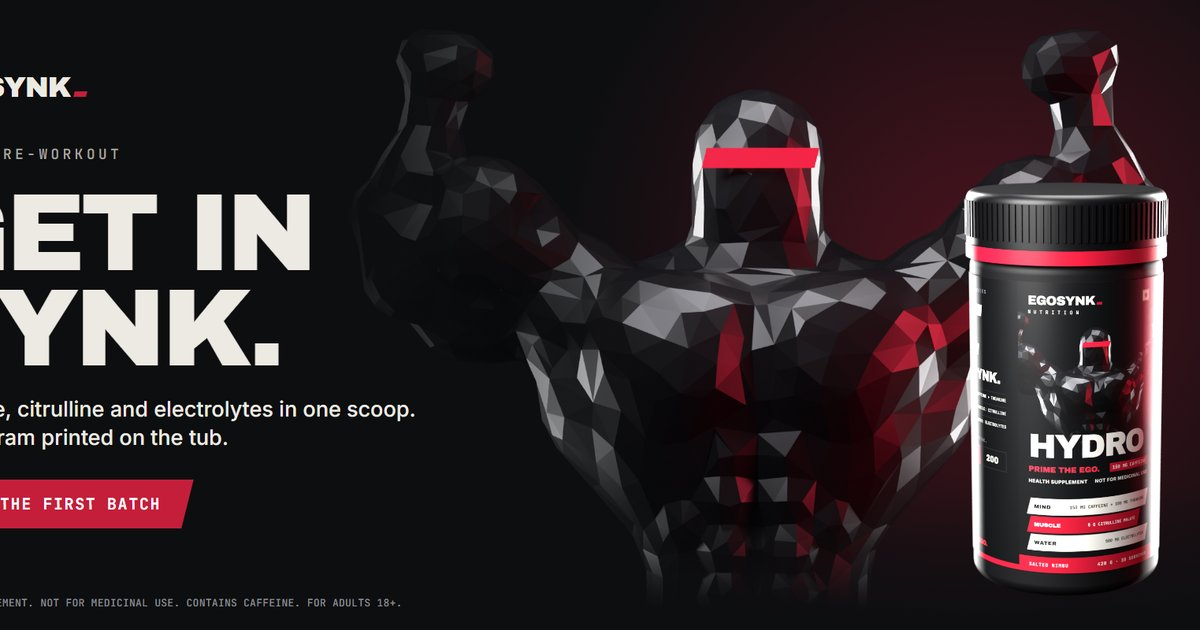
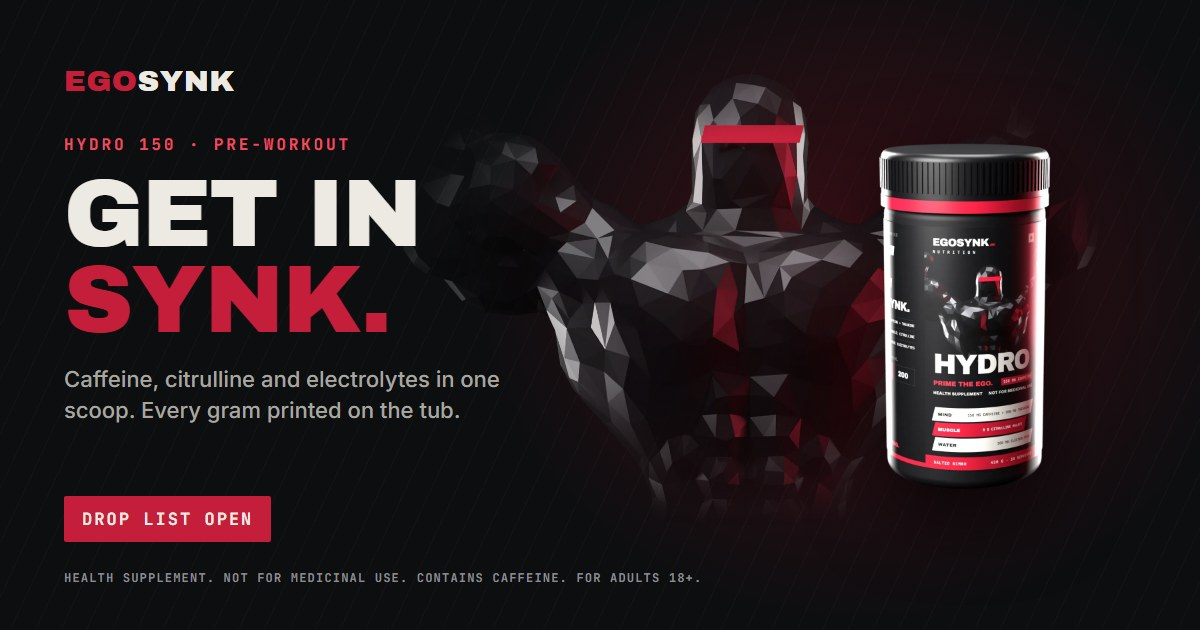
Share previews: new BOLD image, HYDRO image no longer cut off
- og-bold.jpg for /bold (was reusing the homepage image): "Wear your ego.",
  both bottles, drop list chip; no prices or notes.
- og-hydro.jpg rebuilt: the old one was cropped on the left (logo, headline
  and button text cut off).
- Templates for both in scripts/, and scripts/render-og.mjs to re-render any
  of them with one command (node scripts/render-og.mjs <name>).

diff --git a/scripts/og-hydro.html b/scripts/og-hydro.html
@@ -1,0 +1,38 @@
+<!doctype html>
+<!-- Source for public/img/og-hydro.jpg (the /hydro page's WhatsApp / Instagram / X preview).
+     Re-render: node scripts/render-og.mjs hydro
+     Colours are the tokens in src/app/globals.css (ink, bone, dim, steel, rust, rust-dim). -->
+<html><head><meta charset="utf-8">
+<link href="https://fonts.googleapis.com/css2?family=Archivo+Black&family=JetBrains+Mono:wght@700&family=Inter:wght@500&display=swap" rel="stylesheet">
+<style>
+  :root{--ink:#0d0e10;--bone:#edeae3;--dim:#a8a6a0;--steel:#8b8d93;--rust:#c41e3a;--rust-text:#ec4d62;--rust-dim:#3d0f16}
+  *{margin:0;box-sizing:border-box}
+  body{width:1200px;height:630px;overflow:hidden;background:var(--ink);color:var(--bone);font-family:Inter,sans-serif;position:relative}
+  .glow{position:absolute;inset:0;background:radial-gradient(45% 75% at 72% 45%,var(--rust-dim) 0%,transparent 72%)}
+  .lines{position:absolute;inset:0;background:repeating-linear-gradient(115deg,transparent 0 22px,rgba(237,234,227,.025) 22px 23px)}
+  /* SYNK stands behind, faded at its edges so the copy stays readable. */
+  .synk{position:absolute;left:390px;top:20px;width:720px;opacity:.75;-webkit-mask-image:radial-gradient(closest-side,#000 55%,transparent 100%);mask-image:radial-gradient(closest-side,#000 55%,transparent 100%)}
+  .tub{position:absolute;right:40px;top:90px;height:500px;filter:drop-shadow(0 24px 40px rgba(0,0,0,.7))}
+  /* Everything that must be read sits 64px in from every edge. */
+  .copy{position:absolute;left:64px;top:60px;width:520px}
+  .logo{font:400 30px 'Archivo Black';letter-spacing:.02em}
+  .logo b{color:var(--rust);font-weight:400}
+  .eyebrow{font:700 16px 'JetBrains Mono';letter-spacing:.18em;text-transform:uppercase;color:var(--rust-text);margin-top:34px}
+  h1{font:400 96px/0.9 'Archivo Black';text-transform:uppercase;letter-spacing:-.02em;margin-top:14px}
+  h1 span{color:var(--rust)}
+  .sub{font:500 22px/1.4 Inter;color:var(--dim);margin-top:22px;max-width:470px}
+  .chip{position:absolute;left:64px;bottom:88px;font:700 17px 'JetBrains Mono';letter-spacing:.12em;text-transform:uppercase;background:var(--rust);padding:12px 18px;border-radius:2px}
+  .legal{position:absolute;left:64px;bottom:44px;font:700 12px 'JetBrains Mono';letter-spacing:.1em;text-transform:uppercase;color:var(--steel)}
+</style></head><body>
+<div class="glow"></div><div class="lines"></div>
+<img class="synk" src="../public/img/synk.webp" alt="">
+<img class="tub" src="../public/img/hydro-tub-34.webp" alt="">
+<div class="copy">
+  <div class="logo"><b>EGO</b>SYNK</div>
+  <p class="eyebrow">HYDRO 150 · Pre-workout</p>
+  <h1>Get in<br><span>Synk.</span></h1>
+  <p class="sub">Caffeine, citrulline and electrolytes in one scoop. Every gram printed on the tub.</p>
+</div>
+<div class="chip">Drop list open</div>
+<p class="legal">Health supplement. Not for medicinal use. Contains caffeine. For adults 18+.</p>
+</body></html>

diff --git a/scripts/og-bold.html b/scripts/og-bold.html
@@ -1,0 +1,35 @@
+<!doctype html>
+<!-- Source for public/img/og-bold.jpg (the /bold page's WhatsApp / Instagram / X preview).
+     Re-render: node scripts/render-og.mjs bold
+     Colours are the tokens in src/app/globals.css (ink, bone, dim, steel, rust, rust-dim, ember). -->
+<html><head><meta charset="utf-8">
+<link href="https://fonts.googleapis.com/css2?family=Archivo+Black&family=JetBrains+Mono:wght@700&family=Inter:wght@500&display=swap" rel="stylesheet">
+<style>
+  :root{--ink:#0d0e10;--bone:#edeae3;--dim:#a8a6a0;--steel:#8b8d93;--rust:#c41e3a;--rust-dim:#3d0f16;--ember:#2a0a10;--line:#2a2b2f}
+  *{margin:0;box-sizing:border-box}
+  body{width:1200px;height:630px;overflow:hidden;background:var(--ink);color:var(--bone);font-family:Inter,sans-serif;position:relative}
+  .glow{position:absolute;inset:0;background:radial-gradient(42% 75% at 78% 55%,var(--rust-dim) 0%,var(--ember) 40%,transparent 75%)}
+  .lines{position:absolute;inset:0;background:repeating-linear-gradient(115deg,transparent 0 22px,rgba(237,234,227,.025) 22px 23px)}
+  /* Everything that must be read sits 64px in from every edge. */
+  .copy{position:absolute;left:64px;top:60px;width:560px}
+  .logo{font:400 30px 'Archivo Black';letter-spacing:.02em}
+  .logo b{color:var(--rust);font-weight:400}
+  .eyebrow{font:700 16px 'JetBrains Mono';letter-spacing:.18em;text-transform:uppercase;color:#ec4d62;margin-top:34px}
+  h1{font:400 88px/0.9 'Archivo Black';text-transform:uppercase;letter-spacing:-.02em;margin-top:14px}
+  h1 span{color:var(--rust)}
+  .sub{font:500 22px/1.4 Inter;color:var(--dim);margin-top:22px;white-space:nowrap}
+  .chip{position:absolute;left:64px;bottom:60px;font:700 17px 'JetBrains Mono';letter-spacing:.12em;text-transform:uppercase;background:var(--rust);padding:12px 18px;border-radius:2px}
+  .sizes{position:absolute;right:64px;bottom:60px;font:700 15px 'JetBrains Mono';letter-spacing:.14em;text-transform:uppercase;color:var(--steel)}
+  .bottles{position:absolute;right:-40px;top:40px;width:720px;-webkit-mask-image:radial-gradient(closest-side,#000 64%,transparent 100%);mask-image:radial-gradient(closest-side,#000 64%,transparent 100%)}
+</style></head><body>
+<div class="glow"></div><div class="lines"></div>
+<img class="bottles" src="../public/img/bold-pair.webp" alt="">
+<div class="copy">
+  <div class="logo"><b>EGO</b>SYNK</div>
+  <p class="eyebrow">BOLD · Eau de parfum</p>
+  <h1>Wear<br>your<br><span>ego.</span></h1>
+  <p class="sub">Ruby juice, clear glass, the E as the cap.</p>
+</div>
+<div class="chip">Drop list open · Notes at launch</div>
+<div class="sizes">30 ml · 100 ml</div>
+</body></html>

diff --git a/src/app/bold/page.tsx b/src/app/bold/page.tsx
@@ -16,7 +16,7 @@ export const metadata: Metadata = {
     url: "/bold",
     title: "BOLD eau de parfum · EGOSYNK",
     description: "Ruby juice, clear glass, and the three arms of the E on the cap. In 30 and 100 ml. Join the list to hear first.",
-    images: [{ url: "/img/og-home.jpg", width: 1200, height: 630, alt: "EGOSYNK: HYDRO 150 pre-workout and BOLD eau de parfum" }],
+    images: [{ url: "/img/og-bold.jpg", width: 1200, height: 630, alt: "BOLD eau de parfum by EGOSYNK in 30 and 100 ml: ruby juice in clear glass with an E-shaped cap" }],
   },
 };
 

diff --git a/scripts/og-home.html b/scripts/og-home.html
@@ -1,6 +1,6 @@
 <!doctype html>
 <!-- Source for public/img/og-home.jpg (the homepage's WhatsApp / Instagram / X preview).
-     Re-render: msedge --headless=new --window-size=1200,630 --screenshot=og.png scripts/og-home.html -->
+     Re-render: node scripts/render-og.mjs home -->
 <html><head><meta charset="utf-8">
 <link href="https://fonts.googleapis.com/css2?family=Archivo+Black&family=JetBrains+Mono:wght@700&family=Inter:wght@500&display=swap" rel="stylesheet">
 <style>
